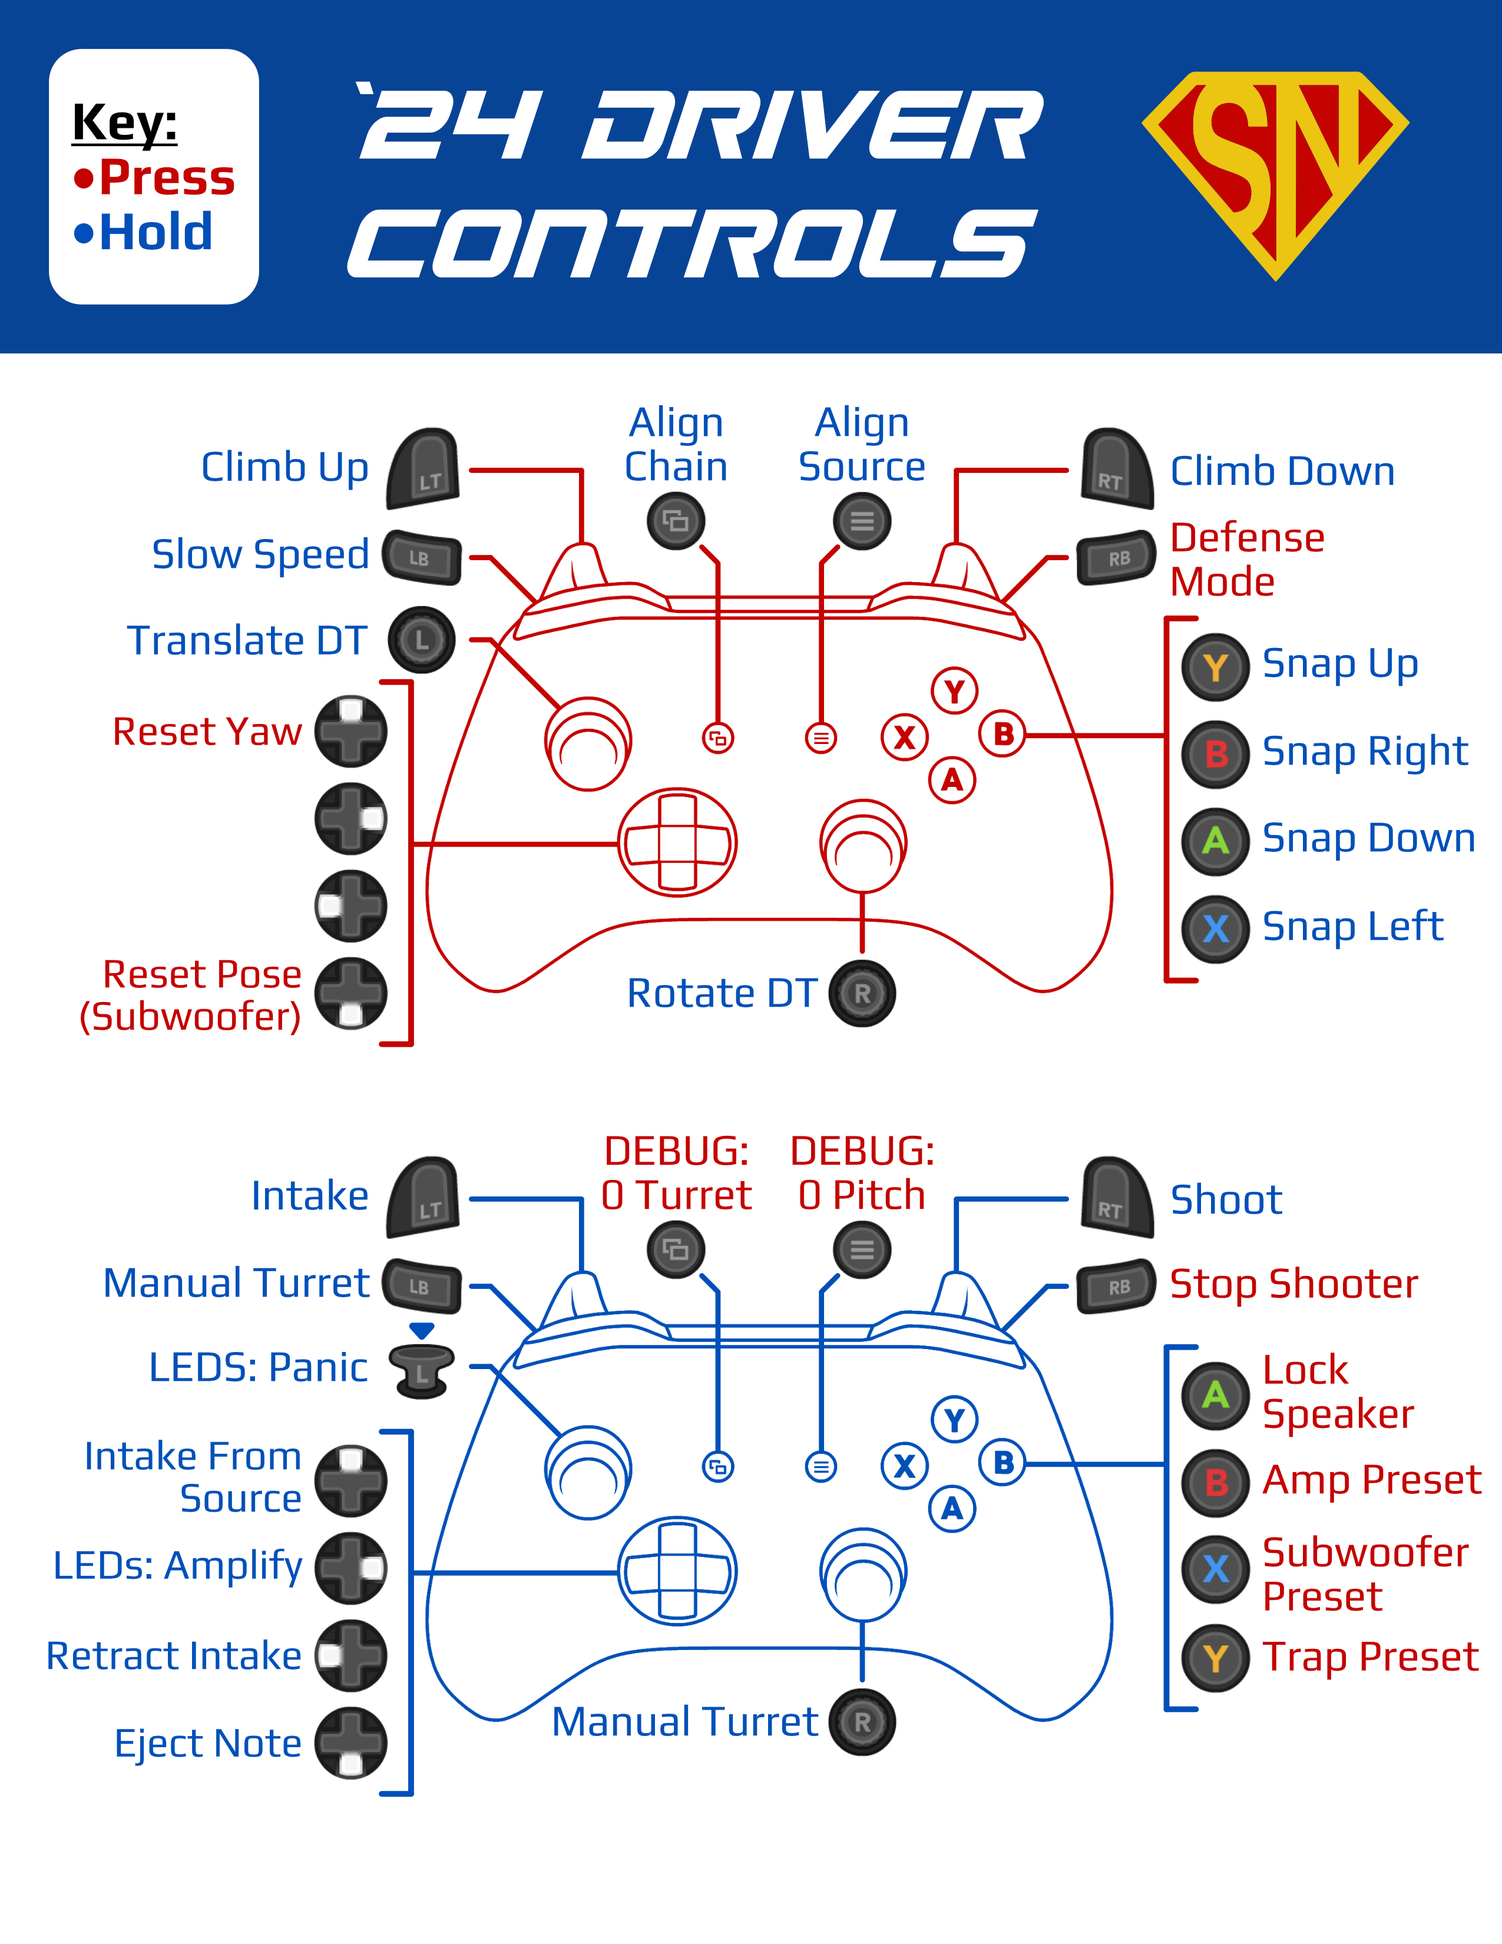
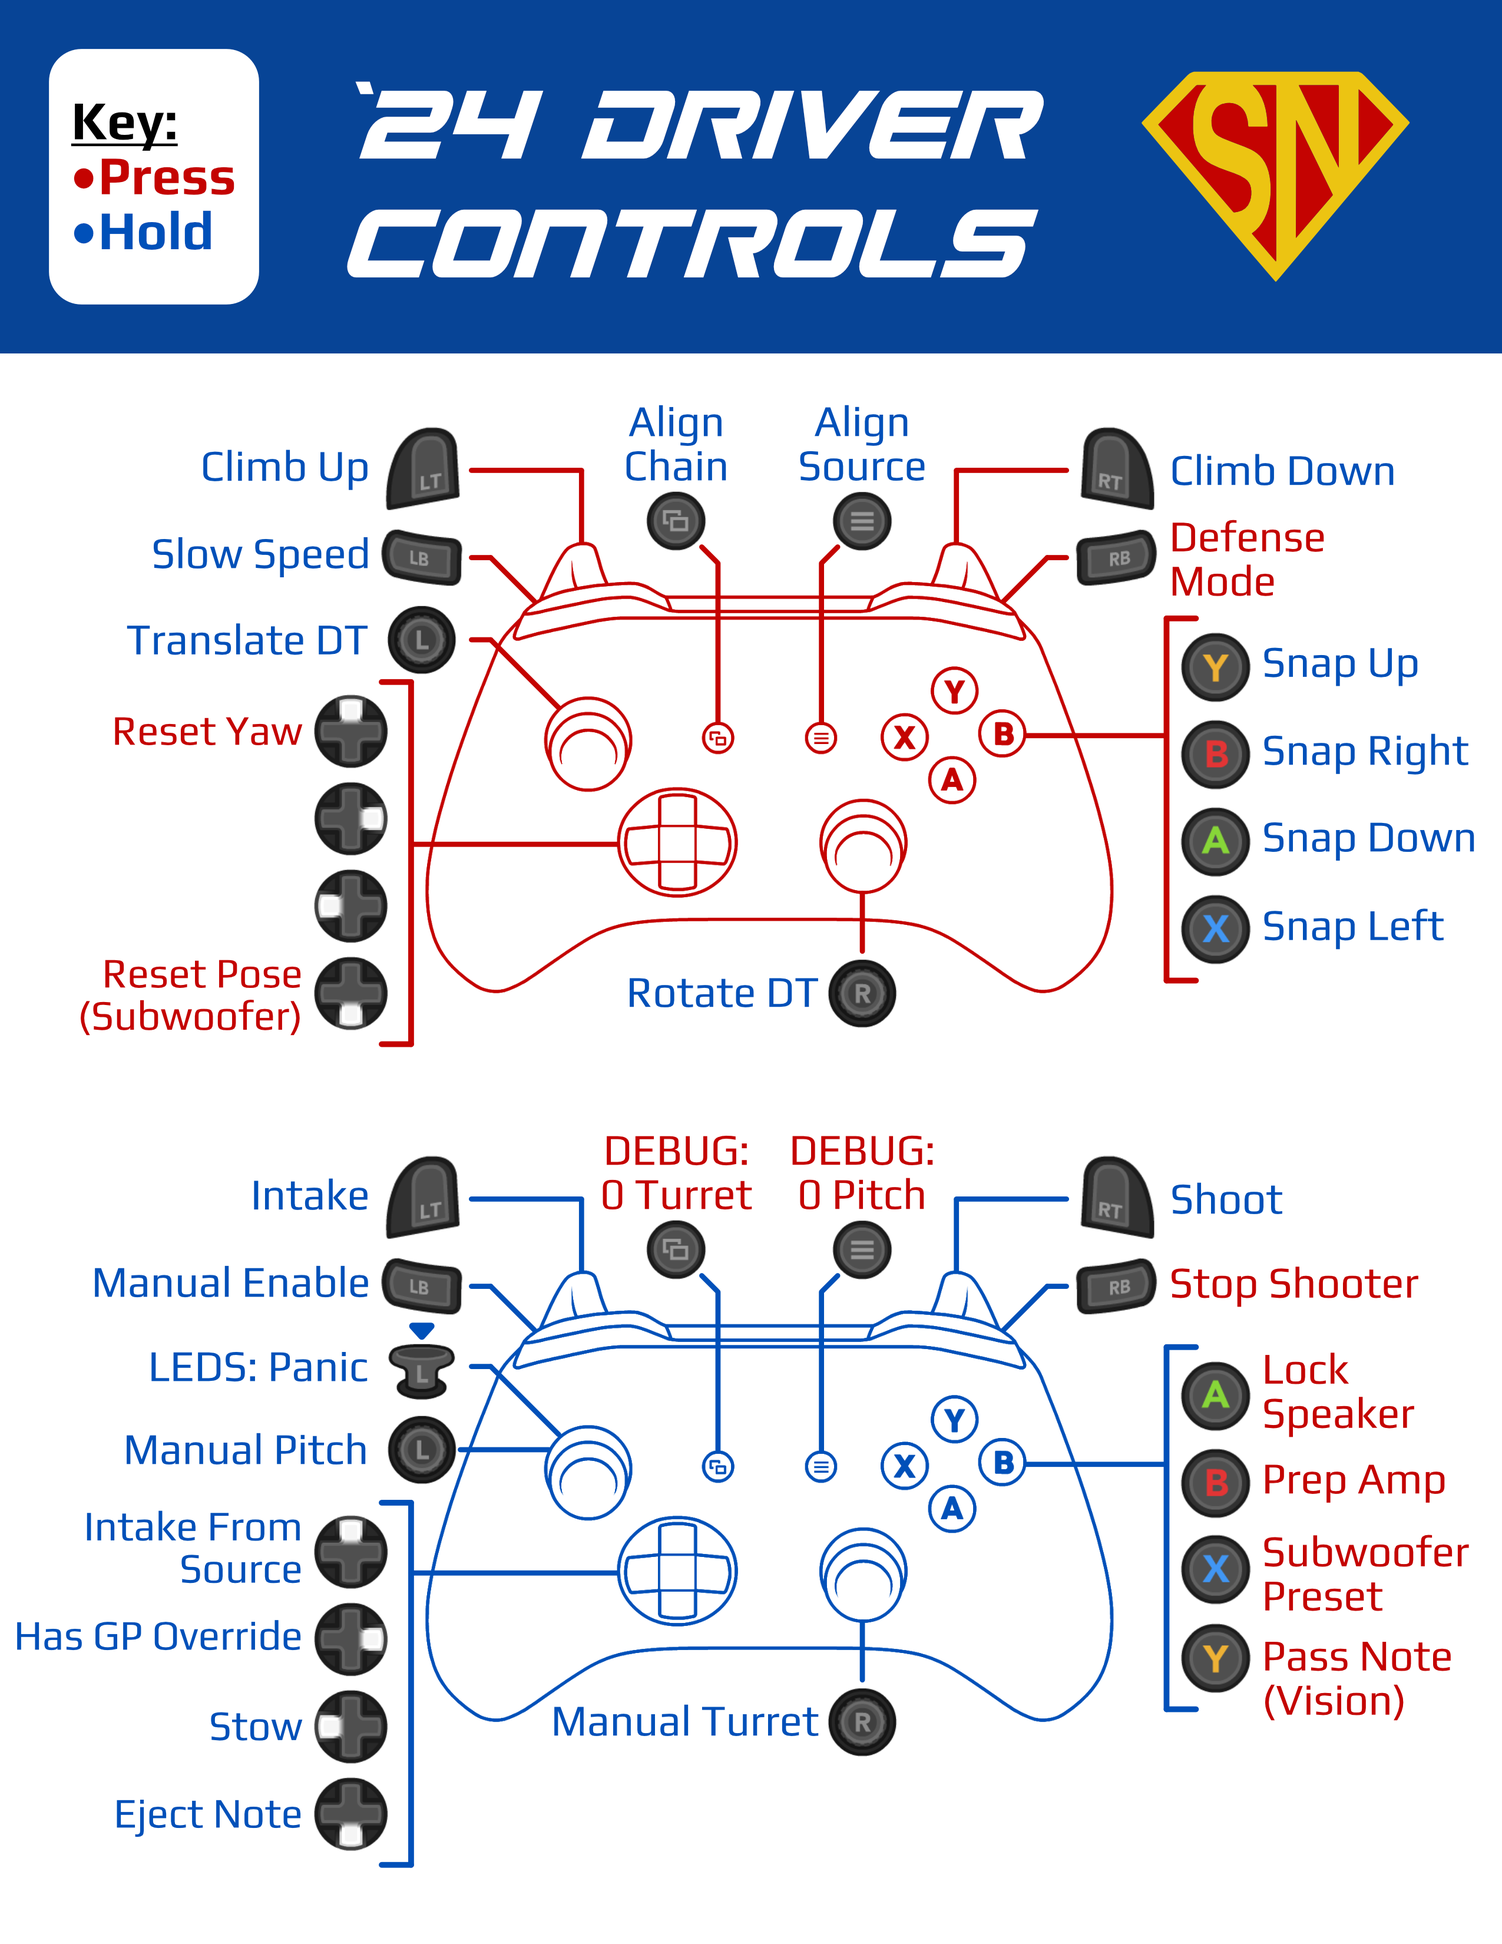
Create additional presets (#259)

diff --git a/src/main/java/frc/robot/RobotContainer.java b/src/main/java/frc/robot/RobotContainer.java
@@ -6,6 +6,7 @@ package frc.robot;
 
 import java.util.Optional;
 
+import com.frcteam3255.joystick.SN_SwitchboardStick;
 import com.frcteam3255.joystick.SN_XboxController;
 import com.pathplanner.lib.auto.NamedCommands;
 
@@ -36,6 +37,7 @@ import frc.robot.commands.IntakeFromSource;
 import frc.robot.commands.IntakeGroundGamePiece;
 import frc.robot.commands.LockPitch;
 import frc.robot.commands.Shoot;
+import frc.robot.commands.ShootingPreset;
 import frc.robot.commands.SpitGamePiece;
 import frc.robot.commands.LockTurret;
 import frc.robot.commands.ManualHoodMovement;
@@ -71,6 +73,7 @@ public class RobotContainer implements Logged {
   // Controllers
   private final SN_XboxController conDriver = new SN_XboxController(mapControllers.DRIVER_USB);
   private final SN_XboxController conOperator = new SN_XboxController(mapControllers.OPERATOR_USB);
+  private final SN_SwitchboardStick conNumpad = new SN_SwitchboardStick(mapControllers.NUMPAD_USB);
 
   // Subsystems
   private final static Climber subClimber = new Climber();
@@ -132,6 +135,7 @@ public class RobotContainer implements Logged {
     // src\main\assets\controllerMap2024.png
     configureDriverBindings(conDriver);
     configureOperatorBindings(conOperator);
+    configureNumpadBindings(conNumpad);
     configureAutoSelector();
 
     subDrivetrain.resetModulesToAbsolute();
@@ -165,55 +169,115 @@ public class RobotContainer implements Logged {
   }
 
   private void configureOperatorBindings(SN_XboxController controller) {
+    // Left Trigger = Intake
     controller.btn_LeftTrigger
-        .whileTrue(new IntakeGroundGamePiece(subIntake, subTransfer, subTurret, subPitch, subShooter, subClimber));
+        .whileTrue(new IntakeGroundGamePiece(subIntake, subTransfer, subTurret,
+            subPitch, subShooter, subClimber));
+
+    // Left Bumper = Enable both Manuals
+    // Left Stick = Manual Hood
+    // Right Stick = Manual Turret
     controller.btn_LeftBumper
         .onTrue(Commands.runOnce(() -> setLockedLocation(LockedLocation.NONE)))
-        .whileTrue(new ManualTurretMovement(subTurret, controller.axis_RightX));
+        .whileTrue(new ManualTurretMovement(subTurret, controller.axis_RightX))
+        .whileTrue(new ManualHoodMovement(subPitch, controller.axis_LeftY));
 
+    // Left Stick Press = Panic
     controller.btn_LeftStick.whileTrue(new Panic(subLEDs));
-    controller.btn_North
-        .whileTrue(new IntakeFromSource(subShooter, subTransfer, subPitch, subTurret));
-    controller.btn_South.whileTrue(new SpitGamePiece(subIntake, subTransfer, subPitch));
-    controller.btn_West.onTrue(Commands.runOnce(() -> subTransfer.setGamePieceCollected(true)));
-    controller.btn_East.onTrue(Commands.runOnce(() -> setLockedLocation(LockedLocation.NONE)))
-        .whileTrue(new ManualHoodMovement(subPitch, controller.axis_RightX));
 
+    // D-PAD North: Intake from Source
+    controller.btn_North.whileTrue(new IntakeFromSource(subShooter, subTransfer, subPitch, subTurret));
+    // D-PAD East: GP Override
+    controller.btn_East.onTrue(Commands.runOnce(() -> subTransfer.setGamePieceCollected(true)));
+    // D-PAD South: Eject
+    controller.btn_South.whileTrue(new SpitGamePiece(subIntake, subTransfer, subPitch));
+    // D-PAD West: Stow
+    controller.btn_Y.onTrue(Commands.runOnce(() -> subIntake.setPivotAngle(prefIntake.pivotStowAngle.getValue())));
+
+    // Right Trigger = Shoot
     controller.btn_RightTrigger
-        .whileTrue(new TransferGamePiece(subShooter, subTurret, subTransfer, subPitch, subIntake))
+        .whileTrue(new TransferGamePiece(subShooter, subTurret, subTransfer,
+            subPitch, subIntake))
         .onFalse(Commands.runOnce(() -> subTransfer.setFeederNeutralOutput())
             .alongWith(Commands.runOnce(() -> subTransfer.setTransferNeutralOutput()))
             .alongWith(new UnaliveShooter(subShooter, subTurret, subPitch, subLEDs)));
 
+    // Right Bumper = Unalive Shooter
     controller.btn_RightBumper.onTrue(new UnaliveShooter(subShooter, subTurret, subPitch, subLEDs)
         .alongWith(Commands.runOnce(() -> subShooter.setIgnoreFlywheelSpeed(false))));
 
+    // A: Lock Speaker
+    controller.btn_A.onTrue(Commands.runOnce(() -> setLockedLocation(LockedLocation.SPEAKER))
+        .alongWith(
+            Commands.runOnce(() -> subShooter.setDesiredVelocities(prefShooter.leftShooterSpeakerVelocity.getValue(),
+                prefShooter.rightShooterSpeakerVelocity.getValue())))
+        .alongWith(Commands.runOnce(() -> subShooter.setIgnoreFlywheelSpeed(false))));
+    // B: Prep Amp
+    controller.btn_B.whileTrue(new PrepAmp(subIntake, subPitch, subTransfer, subTurret, subShooter));
+    // X: Subwoofer Preset
+    controller.btn_X.onTrue(Commands.runOnce(() -> setLockedLocation(LockedLocation.NONE))
+        .alongWith(new ShootingPreset(subShooter, subTurret, subPitch,
+            prefShooter.leftShooterSubVelocity.getValue(),
+            prefShooter.rightShooterSubVelocity.getValue(),
+            prefTurret.turretSubPresetPos.getValue(),
+            prefPitch.pitchSubAngle.getValue(), true)));
+    // Y: Pass Note (with Vision)
+    // TODO: WRITE THIS COMMAND
+
+    // Back/Start are Zero turret and pitch
     controller.btn_Back.onTrue(new ZeroTurret(subTurret));
     controller.btn_Start.onTrue(new ZeroPitch(subPitch));
 
-    // Lock Speaker
-    controller.btn_A.onTrue(Commands.runOnce(() -> setLockedLocation(LockedLocation.SPEAKER)).alongWith(
-        Commands.runOnce(() -> subShooter.setDesiredVelocities(prefShooter.leftShooterSpeakerVelocity.getValue(),
-            prefShooter.rightShooterSpeakerVelocity.getValue())))
-        .alongWith(Commands.runOnce(() -> subShooter.setIgnoreFlywheelSpeed(false))));
+  }
 
-    // Amp Preset
-    controller.btn_B.whileTrue(new PrepAmp(subIntake, subPitch, subTransfer, subTurret, subShooter));
+  private void configureNumpadBindings(SN_SwitchboardStick switchboardStick) {
+    // TODO: the REAL Panama Canal preset
+    // switchboardStick.btn_3.onTrue(Commands.runOnce(() ->
+    // setLockedLocation(LockedLocation.NONE))
+    // .alongWith(new ShootingPreset(subShooter, subTurret, subPitch,
+    // prefShooter.leftShooterSpeakerVelocity.getValue(),
+    // prefShooter.rightShooterSpeakerVelocity.getValue(),
 
-    // Subwoofer Preset
-    controller.btn_X.onTrue(Commands.runOnce(() -> setLockedLocation(LockedLocation.NONE))
-        .alongWith(
-            Commands.runOnce(() -> subShooter.setDesiredVelocities(prefShooter.leftShooterSubVelocity.getValue(),
-                prefShooter.rightShooterSubVelocity.getValue())))
-        .alongWith(
-            Commands.runOnce(
-                () -> subTurret.setTurretAngle(prefTurret.turretSubPresetPos.getValue())))
-        .alongWith(Commands.runOnce(
-            () -> subPitch.setPitchAngle(prefPitch.pitchSubAngle.getValue())))
-        .alongWith(Commands.runOnce(() -> subShooter.setIgnoreFlywheelSpeed(true))));
+    // prefTurret.turretPanamaCanalPresetPos.getValue(),
+    // prefPitch.pitchPanamaCanalAngle.getValue(), true)))
 
-    // STOW
-    controller.btn_Y.onTrue(Commands.runOnce(() -> subIntake.setPivotAngle(prefIntake.pivotStowAngle.getValue())));
+    // Gulf of Mexico
+    switchboardStick.btn_1.onTrue(Commands.runOnce(() -> setLockedLocation(LockedLocation.NONE))
+        .alongWith(new ShootingPreset(subShooter, subTurret, subPitch,
+            prefShooter.leftShooterSpeakerVelocity.getValue(), prefShooter.rightShooterSpeakerVelocity.getValue(),
+            prefTurret.turretShootFromAmpPresetPos.getValue(), prefPitch.pitchShootFromAmpAngle.getValue(), true)));
+
+    // "Leapfrog" or starting-line preset
+    switchboardStick.btn_2.onTrue(Commands.runOnce(() -> setLockedLocation(LockedLocation.NONE))
+        .alongWith(new ShootingPreset(subShooter, subTurret, subPitch,
+            prefShooter.leftShooterSpeakerVelocity.getValue(), prefShooter.rightShooterSpeakerVelocity.getValue(),
+            prefTurret.turretLeapfrogPresetPos.getValue(), prefPitch.pitchLeapfrogAngle.getValue(), true)));
+
+    // Podium preset (the new panama canal)
+    switchboardStick.btn_3.onTrue(Commands.runOnce(() -> setLockedLocation(LockedLocation.NONE))
+        .alongWith(new ShootingPreset(subShooter, subTurret, subPitch,
+            prefShooter.leftShooterSpeakerVelocity.getValue(), prefShooter.rightShooterSpeakerVelocity.getValue(),
+            prefTurret.turretPodiumPresetPos.getValue(), prefPitch.pitchPodiumAngle.getValue(), true)));
+
+    // Peninsula preset (behind the podium)
+    switchboardStick.btn_6.onTrue(Commands.runOnce(() -> setLockedLocation(LockedLocation.NONE))
+        .alongWith(new ShootingPreset(subShooter, subTurret, subPitch,
+            prefShooter.leftShooterSpeakerVelocity.getValue(), prefShooter.rightShooterSpeakerVelocity.getValue(),
+
+            prefTurret.turretBehindPodiumPresetPos.getValue(), prefPitch.pitchBehindPodiumAngle.getValue(), true)));
+
+    // Wing
+    switchboardStick.btn_8.onTrue(Commands.runOnce(() -> setLockedLocation(LockedLocation.NONE))
+        .alongWith(new ShootingPreset(subShooter, subTurret, subPitch,
+            prefShooter.leftShooterSpeakerVelocity.getValue(), prefShooter.rightShooterSpeakerVelocity.getValue(),
+            prefTurret.turretWingPresetPos.getValue(), prefPitch.pitchWingPresetAngle.getValue(), true)));
+
+    // 254 Shuffling preset (centerline corner to amp zone corner)
+    switchboardStick.btn_9.onTrue(Commands.runOnce(() -> setLockedLocation(LockedLocation.NONE))
+        .alongWith(new ShootingPreset(subShooter, subTurret, subPitch,
+            prefShooter.leftShooterShuffleVelocity.getValue(), prefShooter.rightShooterShuffleVelocity.getValue(),
+
+            prefTurret.turretNoteShufflingPresetPos.getValue(), prefPitch.pitchNoteShufflingAngle.getValue(), true)));
   }
 
   private void configureAutoSelector() {

diff --git a/src/main/java/frc/robot/RobotPreferences.java b/src/main/java/frc/robot/RobotPreferences.java
@@ -462,9 +462,21 @@ public class RobotPreferences {
     /**
      * <b>Units:</b> Degrees
      */
-    public static final SN_DoublePreference pitchSubAngle = new SN_DoublePreference("pitchSubAngle", 47);
-
+    public static final SN_DoublePreference pitchSubAngle = new SN_DoublePreference("pitchSubAngle", 55);
     public static final SN_DoublePreference pitchSourceAngle = new SN_DoublePreference("pitchSourceAngle", 48.6);
+
+    public static final SN_DoublePreference pitchBehindPodiumAngle = new SN_DoublePreference("pitchBehindPodiumAngle",
+        27);
+    public static final SN_DoublePreference pitchPanamaCanalAngle = new SN_DoublePreference("pitchPanamaCanalAngle", 0);
+    public static final SN_DoublePreference pitchNoteShufflingAngle = new SN_DoublePreference("pitchNoteShufflingAngle",
+        36);
+    public static final SN_DoublePreference pitchPodiumAngle = new SN_DoublePreference("pitchPodiumAngle", 33);
+    public static final SN_DoublePreference pitchLeapfrogAngle = new SN_DoublePreference("pitchLeapfrogAngle", 40);
+    public static final SN_DoublePreference pitchShootFromAmpAngle = new SN_DoublePreference("pitchShootFromAmpAngle",
+        38);
+    public static final SN_DoublePreference pitchWingPresetAngle = new SN_DoublePreference("pitchWingPresetAngle",
+        21);
+
   }
 
   public static final class prefShooter {
@@ -549,6 +561,14 @@ public class RobotPreferences {
      */
     public static final SN_DoublePreference rightShooterTrapVelocity = new SN_DoublePreference(
         "rightShooterTrapVelocity", 22.5);
+
+    public static final SN_DoublePreference leftShooterShuffleVelocity = new SN_DoublePreference(
+        "leftShooterShuffleVelocity",
+        32);
+
+    public static final SN_DoublePreference rightShooterShuffleVelocity = new SN_DoublePreference(
+        "rightShooterShuffleVelocity",
+        32);
 
   }
 
@@ -692,6 +712,23 @@ public class RobotPreferences {
     public static final SN_DoublePreference turretSubPresetPos = new SN_DoublePreference("turretSubPresetPos", 0);
     public static final SN_DoublePreference turretAmpPresetPos = new SN_DoublePreference("turretAmpPresetPos", 0);
     public static final SN_DoublePreference turretTrapPresetPos = new SN_DoublePreference("turretTrapPresetPos", 0);
+
+    public static final SN_DoublePreference turretBehindPodiumPresetPos = new SN_DoublePreference(
+        "turretBehindPodiumPresetPos", -25.136719);
+    public static final SN_DoublePreference turretPanamaCanalPresetPos = new SN_DoublePreference(
+        "turretPanamaCanalPresetPos", 0);
+    public static final SN_DoublePreference turretNoteShufflingPresetPos = new SN_DoublePreference(
+        "turretNoteShufflingPresetPos", -47);
+    public static final SN_DoublePreference turretPodiumPresetPos = new SN_DoublePreference("turretPodiumPresetPos",
+        -38);
+    public static final SN_DoublePreference turretLeapfrogPresetPos = new SN_DoublePreference("turretLeapfrogPresetPos",
+        0);
+    public static final SN_DoublePreference turretShootFromAmpPresetPos = new SN_DoublePreference(
+        "turretLeapfrogPresetPos",
+        -49);
+    public static final SN_DoublePreference turretWingPresetPos = new SN_DoublePreference(
+        "turretWingPresetPos",
+        0);
 
   }
 

diff --git a/src/main/java/frc/robot/commands/ShootingPreset.java b/src/main/java/frc/robot/commands/ShootingPreset.java
@@ -1,0 +1,68 @@
+// Copyright (c) FIRST and other WPILib contributors.
+// Open Source Software; you can modify and/or share it under the terms of
+// the WPILib BSD license file in the root directory of this project.
+
+package frc.robot.commands;
+
+import edu.wpi.first.wpilibj2.command.Command;
+import frc.robot.RobotPreferences.prefPitch;
+import frc.robot.subsystems.Pitch;
+import frc.robot.subsystems.Shooter;
+import frc.robot.subsystems.Turret;
+
+public class ShootingPreset extends Command {
+  Shooter subShooter;
+  Turret subTurret;
+  Pitch subPitch;
+
+  double desiredLeftVelocity;
+  double desiredRightVelocity;
+  double desiredTurretAngle;
+  double desiredPitchAngle;
+  boolean ignoreFlywheelSpeed;
+
+  /** Creates a new ShootingPreset. */
+  public ShootingPreset(Shooter subShooter, Turret subTurret, Pitch subPitch, double desiredLeftVelocity,
+      double desiredRightVelocity, double desiredTurretAngle, double desiredPitchAngle, boolean ignoreFlywheelSpeed) {
+    this.subShooter = subShooter;
+    this.subTurret = subTurret;
+    this.subPitch = subPitch;
+
+    this.desiredLeftVelocity = desiredLeftVelocity;
+    this.desiredRightVelocity = desiredRightVelocity;
+    this.desiredTurretAngle = desiredTurretAngle;
+    this.desiredPitchAngle = desiredPitchAngle;
+    this.ignoreFlywheelSpeed = ignoreFlywheelSpeed;
+
+    addRequirements(subShooter, subTurret, subPitch);
+  }
+
+  // Called when the command is initially scheduled.
+  @Override
+  public void initialize() {
+    subShooter.setDesiredVelocities(desiredLeftVelocity, desiredRightVelocity);
+    subTurret.setTurretAngle(desiredTurretAngle);
+    subPitch.setPitchAngle(desiredPitchAngle);
+    subShooter.setIgnoreFlywheelSpeed(ignoreFlywheelSpeed);
+  }
+
+  // Called every time the scheduler runs while the command is scheduled.
+  @Override
+  public void execute() {
+    subShooter.getUpToSpeed();
+  }
+
+  // Called once the command ends or is interrupted.
+  @Override
+  public void end(boolean interrupted) {
+    // subTurret.setTurretAngle(0);
+    // subPitch.setPitchAngle(prefPitch.pitchReverseLimit.getValue());
+    subShooter.setIgnoreFlywheelSpeed(false);
+  }
+
+  // Returns true when the command should end.
+  @Override
+  public boolean isFinished() {
+    return false;
+  }
+}

diff --git a/src/main/java/frc/robot/subsystems/Pitch.java b/src/main/java/frc/robot/subsystems/Pitch.java
@@ -112,9 +112,10 @@ public class Pitch extends SubsystemBase implements Logged {
    *              Degrees
    */
   public void setPitchAngle(double angle) {
-    if (angle >= prefPitch.pitchMaxIntake.getValue()) {
-      angle = (angle >= prefPitch.pitchMaxIntake.getValue()) ? prefPitch.pitchMaxIntake.getValue() : getPitchAngle();
-    }
+    // if (angle >= prefPitch.pitchMaxIntake.getValue()) {
+    // angle = (angle >= prefPitch.pitchMaxIntake.getValue()) ?
+    // prefPitch.pitchMaxIntake.getValue() : getPitchAngle();
+    // }
     if (isAnglePossible(angle)) {
       desiredPitchAngle = angle;
       pitchMotor.setControl(motionMagicRequest.withPosition(Units.degreesToRotations(angle)));

diff --git a/src/main/java/frc/robot/RobotMap.java b/src/main/java/frc/robot/RobotMap.java
@@ -8,7 +8,7 @@ public class RobotMap {
   public static class mapControllers {
     public static final int DRIVER_USB = 0;
     public static final int OPERATOR_USB = 1;
-
+    public static final int NUMPAD_USB = 2;
   }
 
   // MOTORS: 30 -> 39
